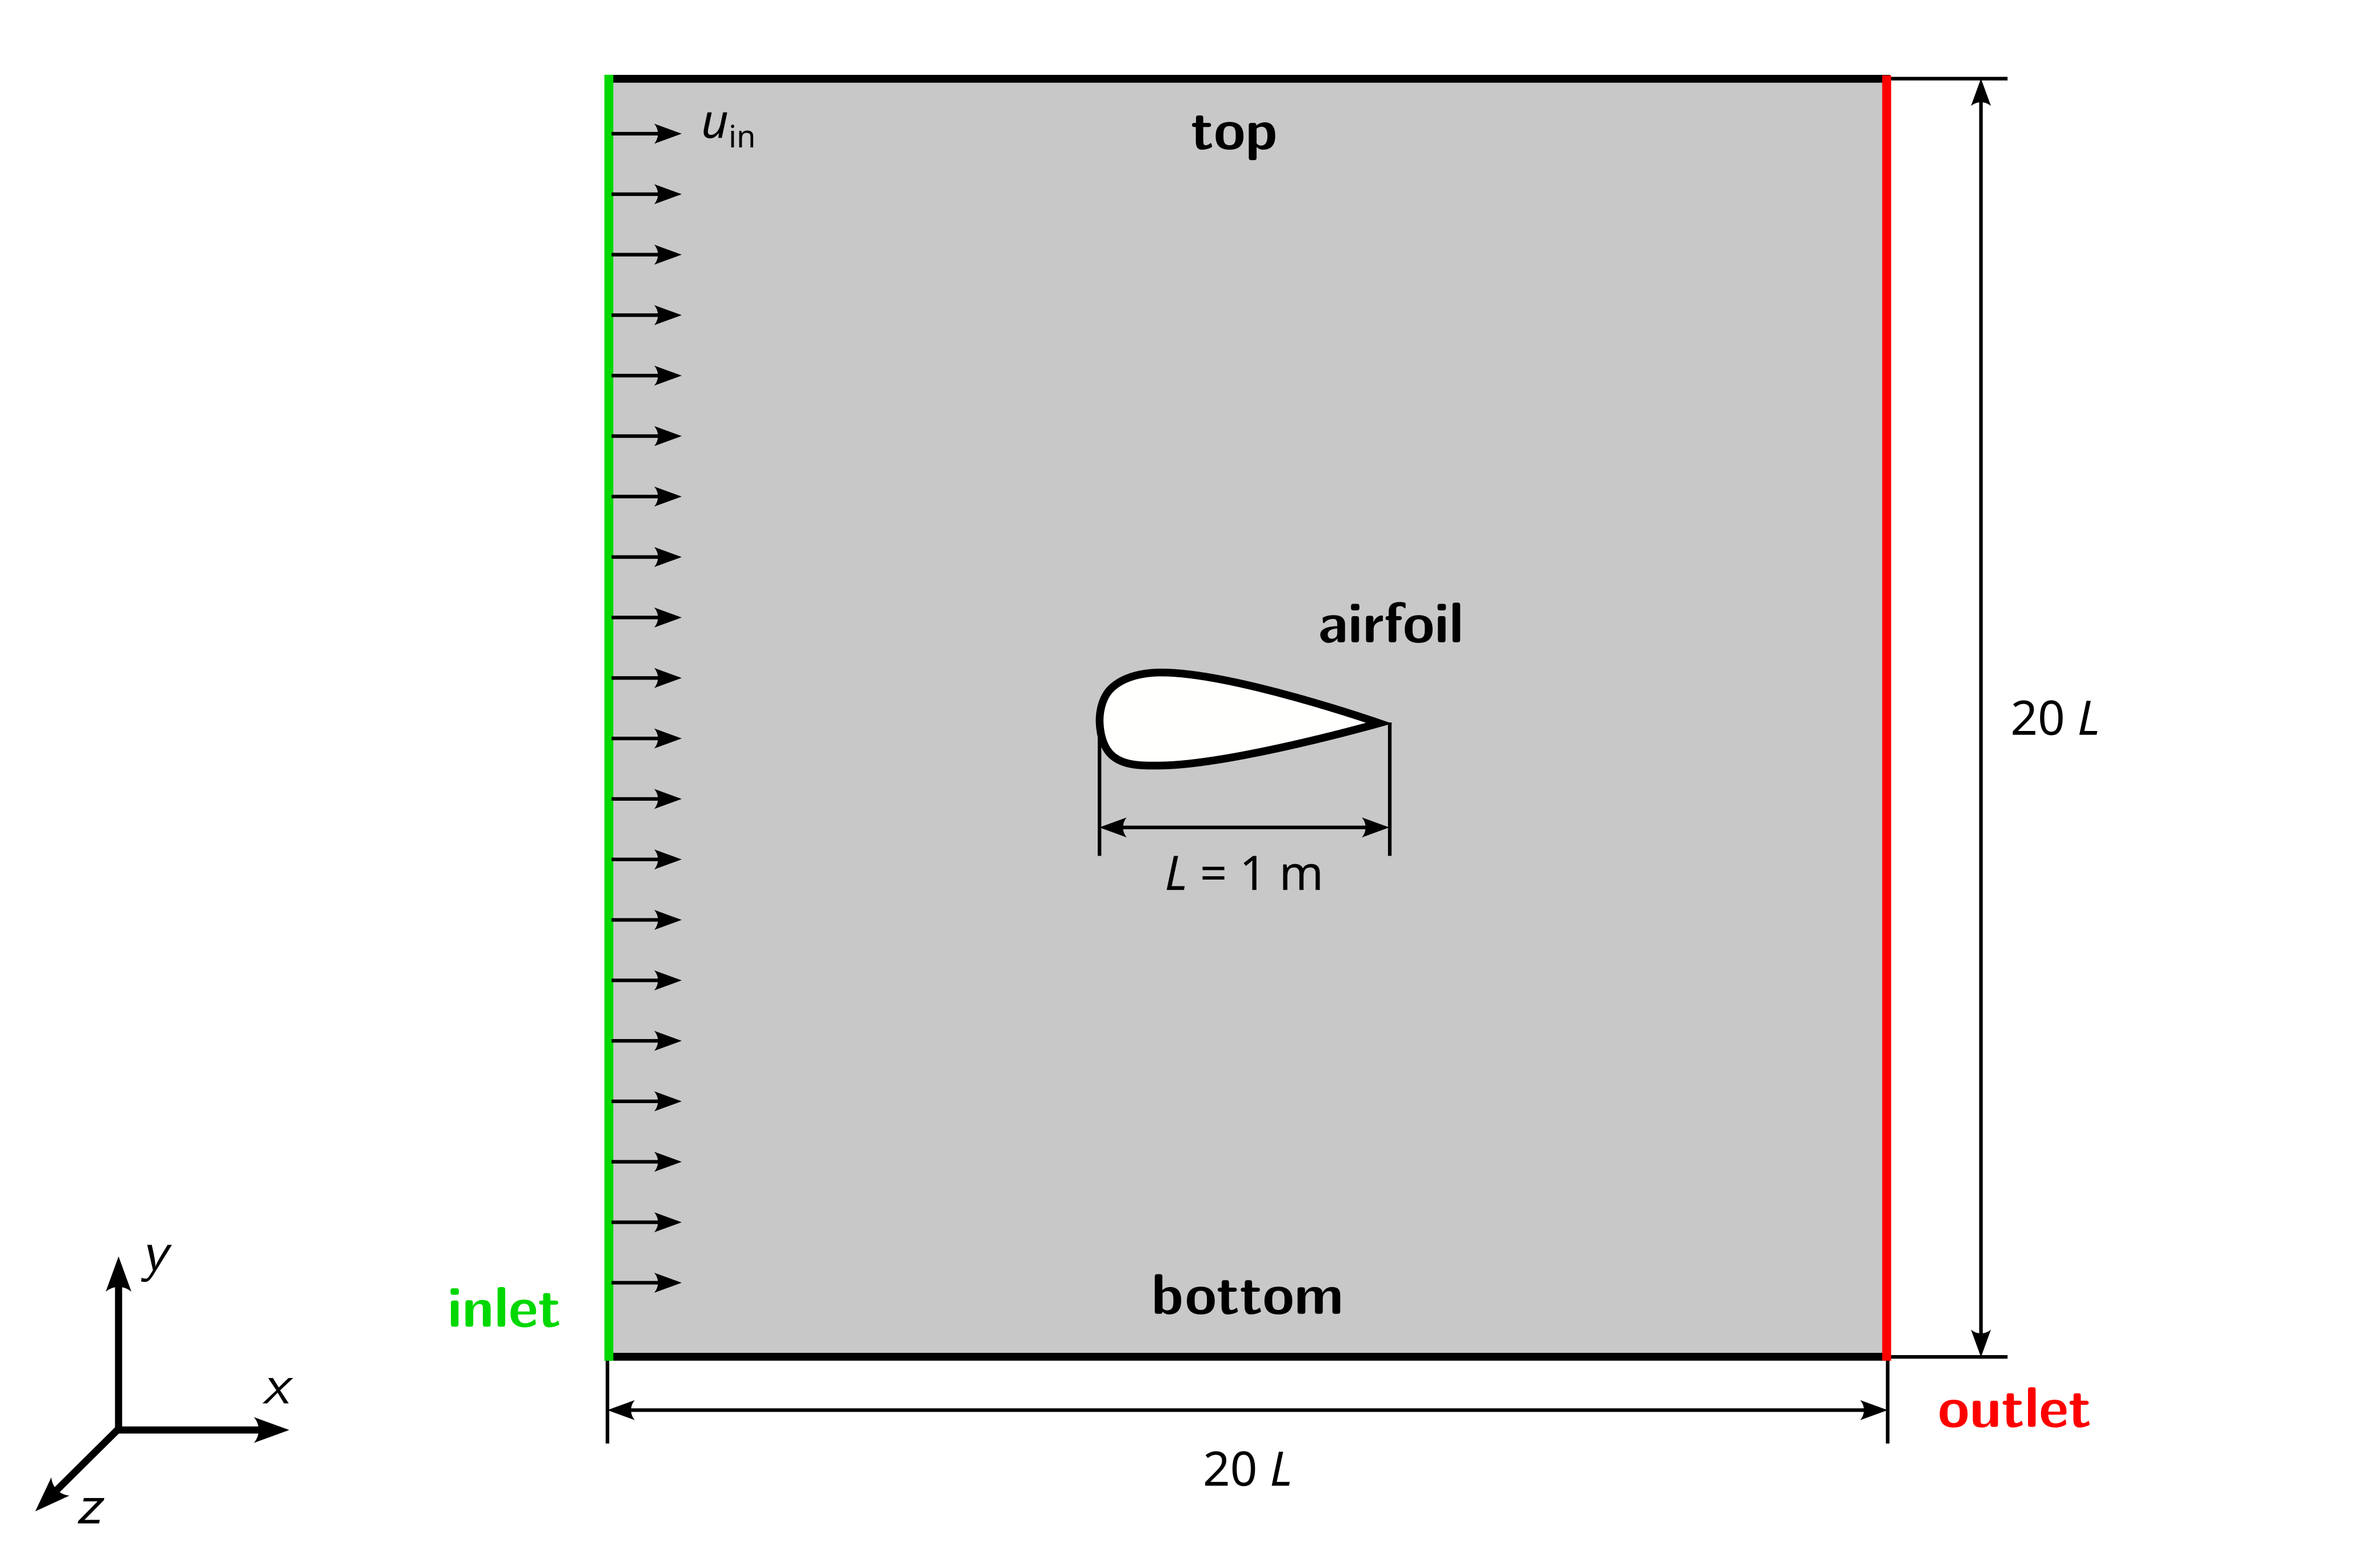
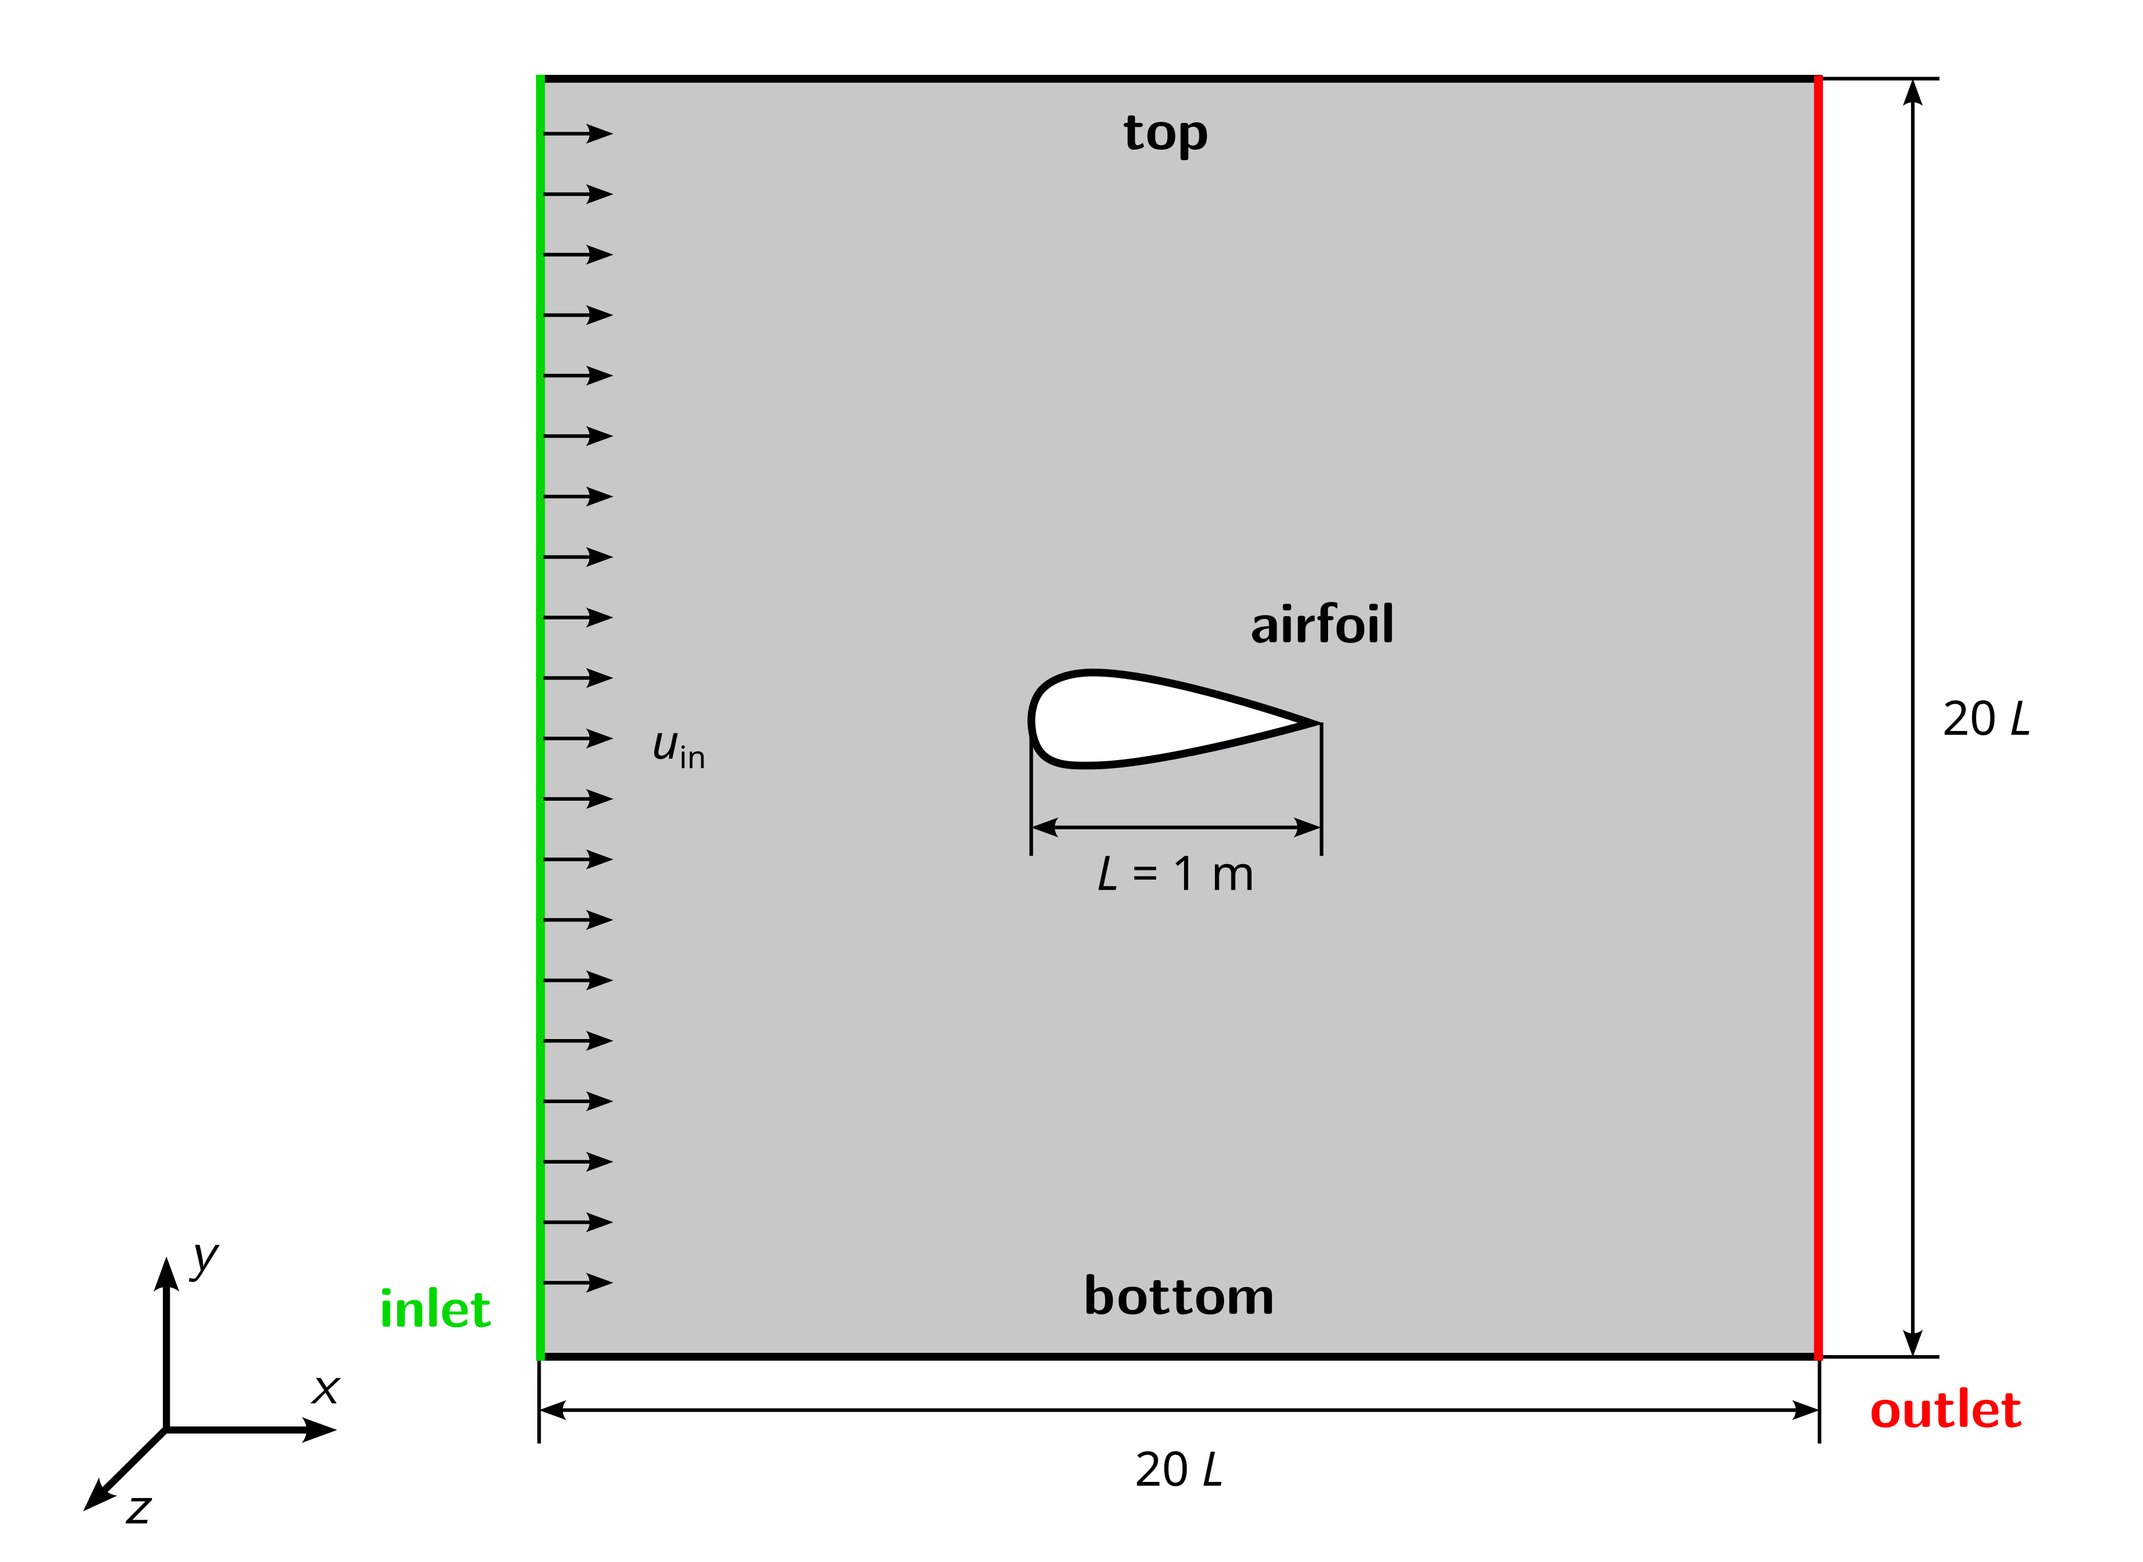
Minor additions and changes to airfoil case

diff --git a/4_airfoil/1_preprocessing.md b/4_airfoil/1_preprocessing.md
@@ -1,0 +1,52 @@
+---
+layout: default
+title: Pre-Processing
+parent: 4. Airfoil
+nav_order: 1
+---
+
+
+# Pre-Processing
+
+## OpenFOAM Case Structure
+
+A case being simulated involves data for mesh, fields, properties, control parameters, etc. In OpenFOAM this data is stored in a set of files within a case directory rather than in a single case file, as in many other CFD packages. The case directory is given a suitably descriptive name, here `airfoil`. This folder contains the following subfolders and files:
+
+```
+backward-step
+├── 0
+│   ├── p
+│   └── U
+├── constant
+│   ├── turbulenceProperties
+│   └── transportProperties
+├── geometries
+│   ├── airfoil_0deg.stl
+│   ├── airfoil_2deg.stl
+│   ├── airfoil_4deg.stl
+│   ├── airfoil_6deg.stl
+│   ├── airfoil_8deg.stl
+│   └── airfoil_10deg.stl
+└── system
+    ├── controlDict
+    ├── fvSchemes
+    ├── fvSolution
+    └── meshDict
+
+4 directories, 12 files
+```
+
+The *relevant* files for this tutorial case are:
+- `0` - This directory stores the initial values and boundary condition for each variables solved.
+- `constant` - This directory contains files that are related to the physics of the problem, including the mesh and any physical properties that are required for the solver. In this case:
+    - `transportProperties` has the physical properties of the fluid, e.g. viscosity.
+    - `turbulenceProperties` contains the setting for the turbulence mode.
+- `constant` - This directory contains files that are related to the physics of the problem, including the mesh and any physical properties that are required for the solver. In this case:
+    - `transportProperties` has the physical properties of the fluid, e.g. viscosity.
+    - `turbulenceProperties` contains the setting for the turbulence mode.
+- `geometries` - This directory contains all geometry files required for the tutorial.
+- `system` - This folder contains files related to how the simulation is to be solved:
+    - `controlDict` for setting control parameters including start/end time, time step size and parameters for data output.
+    - `fvSolution` for the solver settings used in the Finite Volume Method.
+    - `meshDict` contains the configuration for the automated meshing process.
+

diff --git a/3_backward-step/1_preprocessing.md b/3_backward-step/1_preprocessing.md
@@ -18,9 +18,9 @@ backward-step
 │   ├── p
 │   └── U
 ├── constant
-│   └── turbulenceProperties
+│   ├── turbulenceProperties
 │   └── transportProperties
-└── system
+├── system
 │   ├── controlDict
 │   ├── fvSchemes
 │   ├── fvSolution
